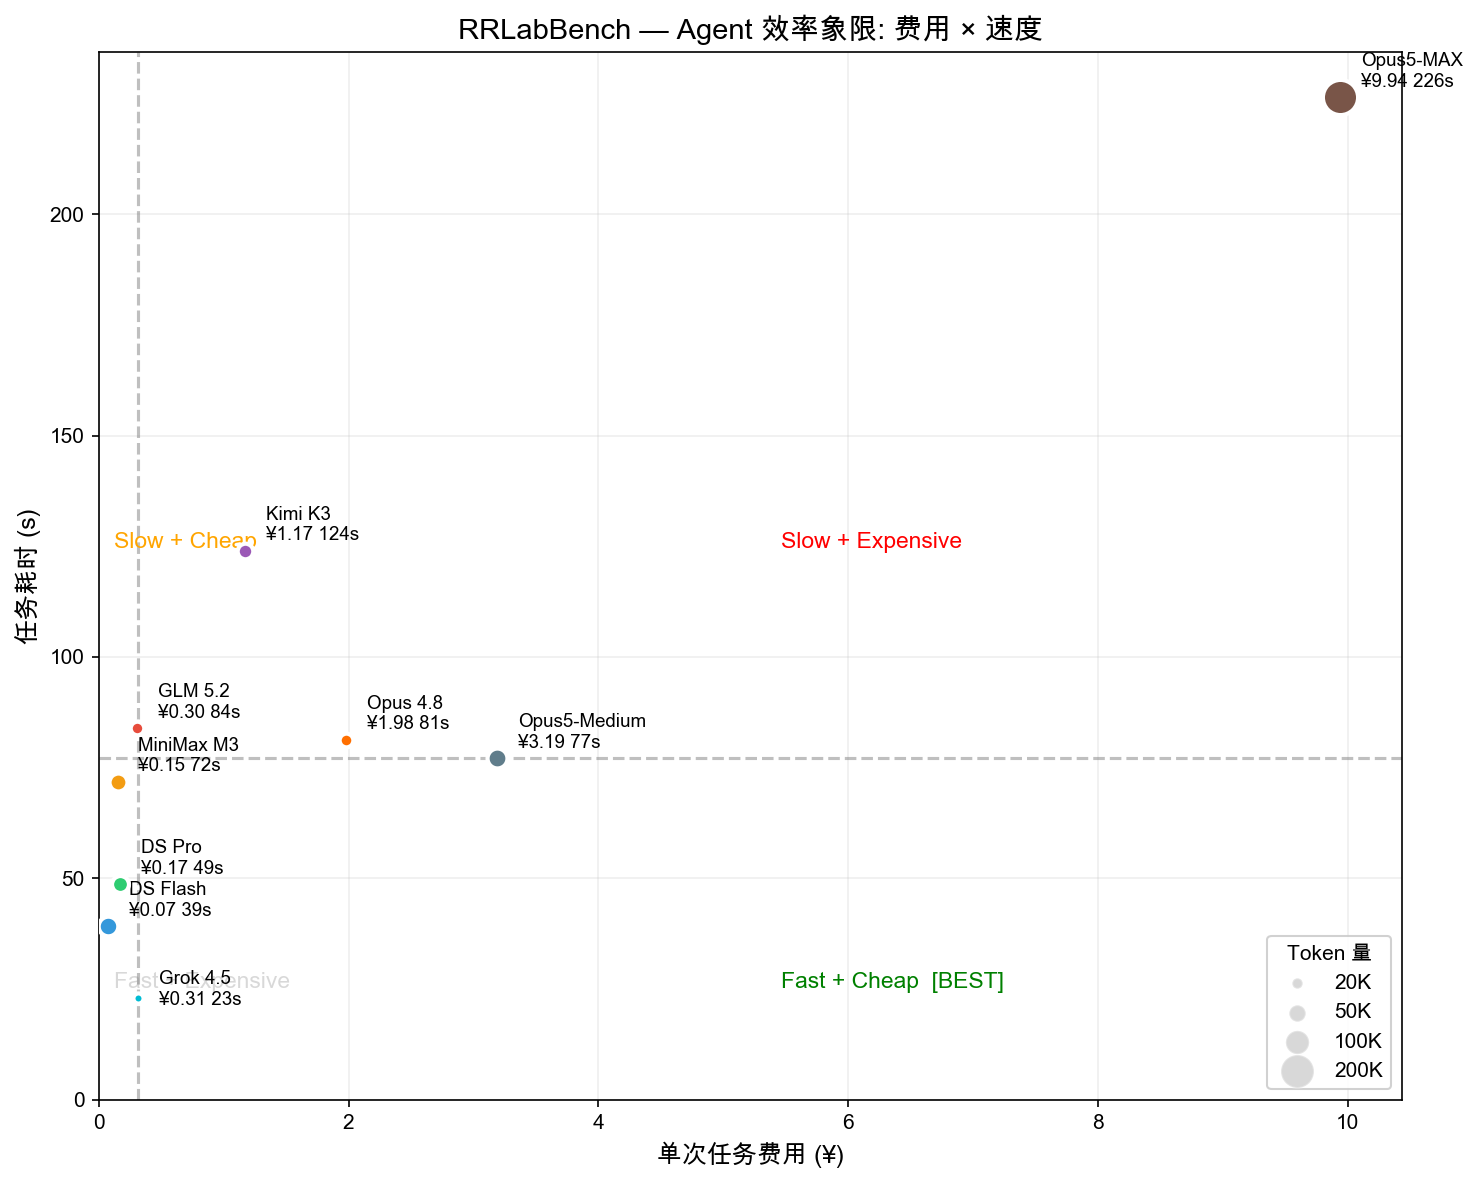
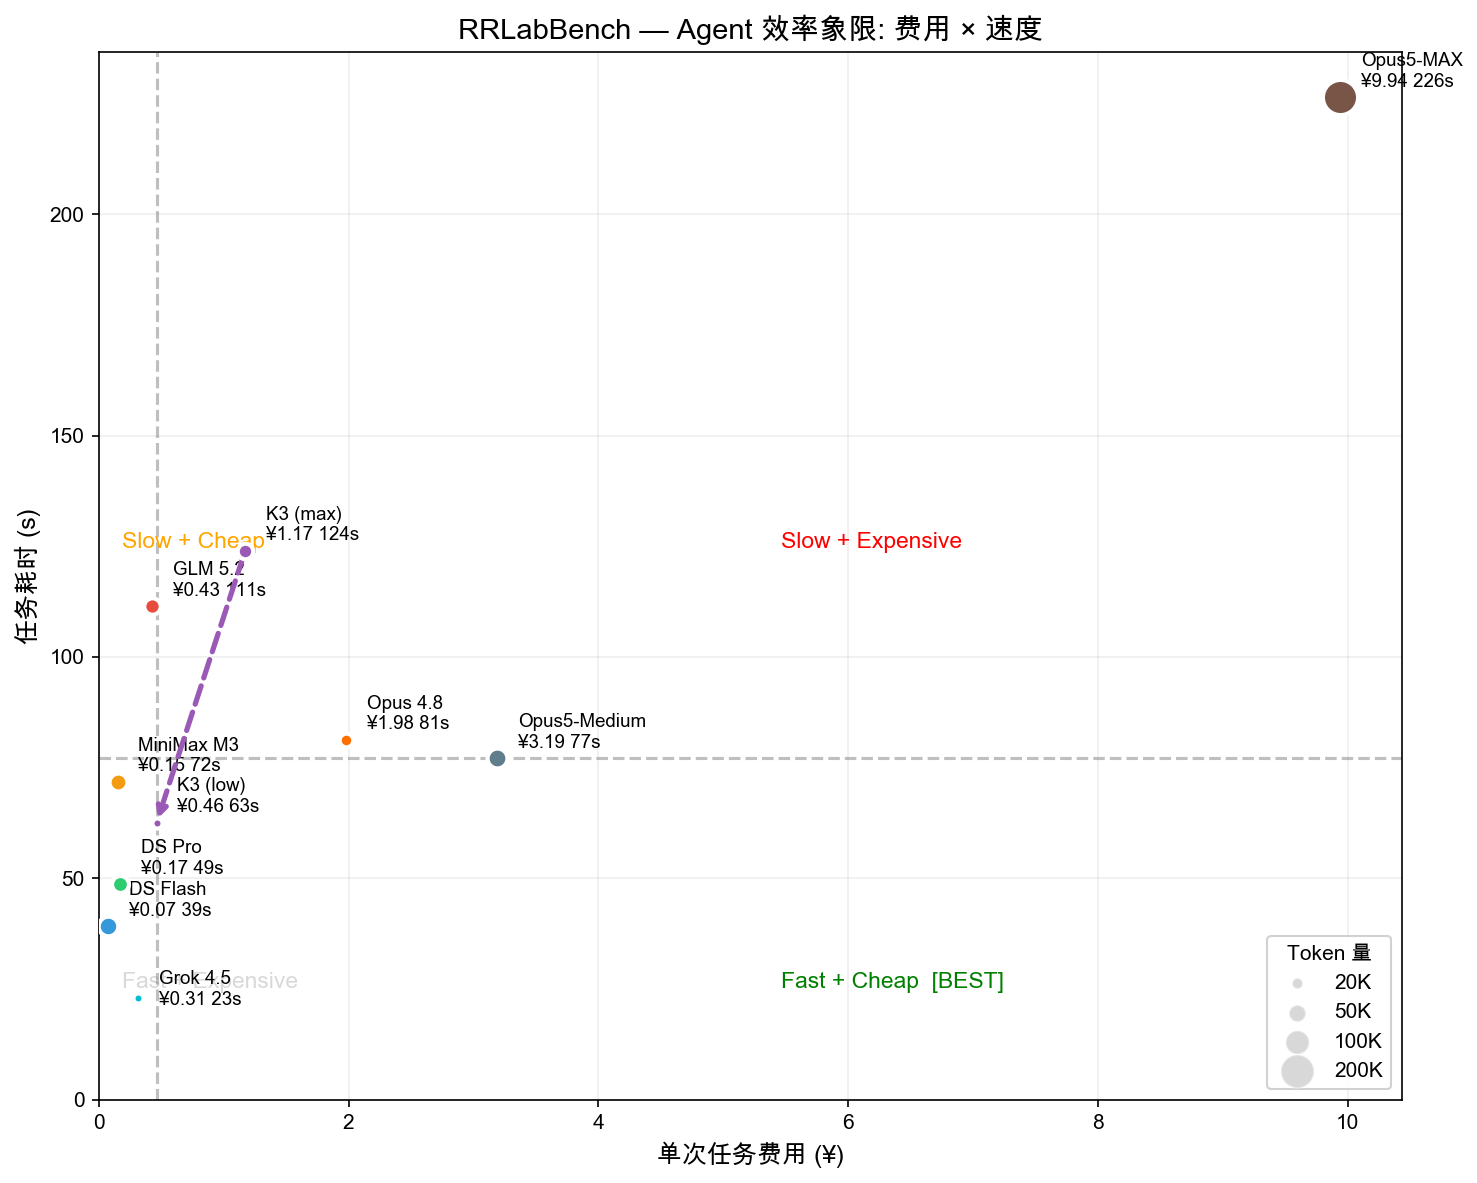
docs: 更新 README 图表与参考数据至 v0.3（K3 thinking=low 重测）
- 三张图表重绘：ranking / quadrant_cost_speed / quadrant_cost_turns
- 象限图新增 K3 max→low 迁移箭头
- 参考数据表更新：K3 (low) 排第 2，GLM 5.2 官方直连数据
- 聚合报告链接指向 data/FINAL_RANKING.md（v0.3）

Changed region(s): [[0.0934, 0.426, 0.1869, 0.6999], [0.0934, 0.8216, 0.1869, 0.8521], [0.1869, 0.426, 0.218, 0.4565]]

diff --git a/scripts/quadrant_png.py b/scripts/quadrant_png.py
@@ -23,7 +23,7 @@ plt.rcParams['axes.unicode_minus'] = False
 MODELS = [
     ('deepseek-v4-pro', 'DS Pro', 3, 6),
     ('deepseek-v4-flash', 'DS Flash', 1, 2),
-    ('kimi-k3', 'Kimi K3', 20, 100),
+    ('kimi-k3', 'K3 (low)', 20, 100),
     ('glm-5.2', 'GLM 5.2', 7, 22),
     ('MiniMax-M3', 'MiniMax M3', 2.18, 8.7),
     ('x-ai/grok-4.5', 'Grok 4.5', 14.5, 43.5),
@@ -74,13 +74,32 @@ for suffix, label in [('', 'Opus5-Medium'), ('_max', 'Opus5-MAX')]:
     if all_t:
         rows.append((label, med(all_t), med(all_e), med(all_tok), med(all_pt), med(all_ct), 36.25, 181.25))
 
+# Kimi K3 thinking=max（归档数据，用于对比）
+ARCHIVE_DIR = DATA_DIR / 'archive-20260726-openrouter'
+all_t,all_e,all_tok,all_pt,all_ct = [],[],[],[],[]
+for s in SCENARIOS:
+    f = ARCHIVE_DIR / f"{s}_kimi-k3.json"
+    try:
+        d = json.loads(f.read_text())
+        results = d if isinstance(d,list) else d.get('results',[])
+        valid = [r for r in results if r and r.get('error') is None]
+        if valid:
+            all_t += [r['turns'] for r in valid]
+            all_e += [r['elapsed'] for r in valid]
+            all_tok += [r['total_tokens'] for r in valid]
+            all_pt += [r.get('prompt_tokens',0) for r in valid]
+            all_ct += [r.get('completion_tokens',0) for r in valid]
+    except: pass
+if all_t:
+    rows.append(('K3 (max)', med(all_t), med(all_e), med(all_tok), med(all_pt), med(all_ct), 20, 100))
+
 data = []
 for label,tm,em,tkm,pm,cm,pi,po in rows:
     data.append({'label':label,'turns':tm,'time':em,'tokens':tkm,
                  'cost':pm/1e6*pi + cm/1e6*po,
                  'tpt':tkm/tm, 'ept':em/tm})
 
-colors = ['#2ecc71','#3498db','#9b59b6','#e74c3c','#f39c12','#00bcd4','#ff6f00','#607d8b','#795548']
+colors = ['#2ecc71','#3498db','#9b59b6','#e74c3c','#f39c12','#00bcd4','#ff6f00','#607d8b','#795548','#9b59b6']
 
 # ═══════ 图 1: 费用 × 速度 象限图 ═══════
 fig, ax = plt.subplots(figsize=(10, 8))
@@ -107,6 +126,13 @@ for i, d in enumerate(data):
     ax.annotate(f"{d['label']}\n¥{d['cost']:.2f} {d['time']:.0f}s",
                 (d['cost'], d['time']), textcoords="offset points", xytext=(10, offset_y),
                 fontsize=9, fontweight='bold')
+
+# K3 max → low 迁移箭头
+k3_max = next((d for d in data if d['label'] == 'K3 (max)'), None)
+k3_low = next((d for d in data if d['label'] == 'K3 (low)'), None)
+if k3_max and k3_low:
+    ax.annotate('', xy=(k3_low['cost'], k3_low['time']), xytext=(k3_max['cost'], k3_max['time']),
+                arrowprops=dict(arrowstyle='->', color='#9b59b6', lw=2.5, linestyle='--'))
 
 # 图例: 气泡大小 = Token
 legend_labels = ['20K', '50K', '100K', '200K']
@@ -150,30 +176,31 @@ print(f"✅ {OUT_DIR / 'quadrant_cost_turns.png'}")
 # ═══════ 图 3: 综合排名横向条形图 ═══════
 fig, ax = plt.subplots(figsize=(10, 7))
 
-# 计算综合分
-best_cost = min(d['cost'] for d in data)
-best_time = min(d['time'] for d in data)
-best_turns = min(d['turns'] for d in data)
-best_tokens = min(d['tokens'] for d in data)
-
+# 计算综合分（与 FINAL_RANKING.md 同口径：回合×0.4 + Token/1000×0.3 + 耗时×0.3，越低越好）
 scored = []
 for d in data:
-    s = best_cost/d['cost']*0.30 + best_time/d['time']*0.30 + best_turns/d['turns']*0.20 + best_tokens/d['tokens']*0.20
+    s = d['turns']*0.4 + d['tokens']/1000*0.3 + d['time']*0.3
     scored.append((d['label'], s))
 
-scored.sort(key=lambda x: x[1])
+scored.sort(key=lambda x: -x[1])  # 差分在上，好分在下
 labels = [s[0] for s in scored]
 scores = [s[1] for s in scored]
-bar_colors = ['#2ecc71','#2ecc71','#2ecc71','#f39c12','#f39c12','#e74c3c','#e74c3c','#e74c3c','#e74c3c']
+n = len(scored)
+bar_colors = []
+for i in range(n):
+    rank = n - i  # 底部是第 1 名
+    if rank <= 3: bar_colors.append('#2ecc71')
+    elif rank <= 6: bar_colors.append('#f39c12')
+    else: bar_colors.append('#e74c3c')
 
 ax.barh(labels, scores, color=bar_colors, height=0.6)
-ax.set_xlabel('综合得分 (费用30% + 速度30% + 回合20% + Token20%)', fontsize=11)
-ax.set_title('RRLabBench — 综合排名', fontsize=14, fontweight='bold')
+ax.set_xlabel('综合效率分 (回合×0.4 + Token/1000×0.3 + 耗时×0.3，越低越好)', fontsize=11)
+ax.set_title('RRLabBench — 综合排名（顶部为第 1 名）', fontsize=14, fontweight='bold')
 
 for i, (label, score) in enumerate(scored):
-    ax.text(score + 0.01, i, f'{score:.3f}', va='center', fontweight='bold')
+    ax.text(score + 0.3, i, f'{score:.1f}', va='center', fontweight='bold')
 
-ax.set_xlim(0, max(scores) * 1.15)
+ax.set_xlim(0, max(scores) * 1.12)
 ax.grid(True, axis='x', alpha=0.2)
 plt.tight_layout()
 plt.savefig(OUT_DIR / 'ranking.png', dpi=150, bbox_inches='tight')

diff --git a/scripts/harness_log.py b/scripts/harness_log.py
@@ -1,0 +1,105 @@
+#!/usr/bin/env python3
+"""
+harness_log — Bench-Harness 每日实验数据记录
+
+每天手动闭环后运行一次，把 pi-reflect 运行结果 + 探针结果追加到
+data/harness-log/harness-log.jsonl（JSONL，一天一行）。
+
+用法:
+  python3 scripts/harness_log.py --date 2026-07-31 \
+      --probe-file /tmp/probe_0731.json \
+      --bad-edits 2 --total-edits 6 \
+      --note "merge吞句+重复行,已手动修复"
+
+参数:
+  --date          日期（默认今天）
+  --probe-file    探针结果 JSON（rrlab-bench probe -o 输出），可选
+  --total-edits   pi-reflect 应用编辑数（从 reflect-history.json 自动读，可覆盖）
+  --bad-edits     diff 检查发现的有害编辑数
+  --note          备注
+"""
+
+import argparse
+import json
+from datetime import date as dt_date
+from pathlib import Path
+
+REPO = Path(__file__).resolve().parent.parent
+LOG_DIR = REPO / "data" / "harness-log"
+LOG_FILE = LOG_DIR / "harness-log.jsonl"
+REFLECT_HISTORY = Path.home() / ".pi" / "agent" / "reflect-history.json"
+
+
+def load_reflect_entry(date_str: str) -> dict | None:
+    """从 reflect-history.json 找该日期对应的记录（按 UTC 日期匹配）"""
+    if not REFLECT_HISTORY.exists():
+        return None
+    history = json.load(open(REFLECT_HISTORY))
+    for entry in reversed(history):
+        ts = entry.get("timestamp", "")
+        # timestamp 是 UTC，本地 +8 的凌晨 4 点 = UTC 前一天 20 点
+        # 匹配：UTC 日期 == date_str 或 date_str 前一天
+        if ts[:10] in (date_str, _prev_day(date_str)):
+            return entry
+    return None
+
+
+def _prev_day(date_str: str) -> str:
+    y, m, d = map(int, date_str.split("-"))
+    from datetime import timedelta
+    return (dt_date(y, m, d) - timedelta(days=1)).isoformat()
+
+
+def main():
+    ap = argparse.ArgumentParser()
+    ap.add_argument("--date", default=dt_date.today().isoformat())
+    ap.add_argument("--probe-file", help="probe -o 输出的 JSON 文件")
+    ap.add_argument("--total-edits", type=int, help="覆盖自动读取的编辑数")
+    ap.add_argument("--bad-edits", type=int, default=0)
+    ap.add_argument("--note", default="")
+    args = ap.parse_args()
+
+    # pi-reflect 信息
+    reflect_entry = load_reflect_entry(args.date)
+    record = {
+        "date": args.date,
+        "reflect": {
+            "ran": reflect_entry is not None,
+            "sessions_analyzed": reflect_entry.get("sessionsAnalyzed") if reflect_entry else 0,
+            "edits_applied": args.total_edits if args.total_edits is not None
+                            else (reflect_entry.get("editsApplied") if reflect_entry else 0),
+            "bad_edits": args.bad_edits,
+            "summary": reflect_entry.get("summary", "") if reflect_entry else "",
+        },
+        "probes": None,
+        "note": args.note,
+    }
+
+    # 探针信息
+    if args.probe_file and Path(args.probe_file).exists():
+        probe_data = json.load(open(args.probe_file))
+        record["probes"] = {
+            "total": len(probe_data),
+            "passed": sum(1 for p in probe_data if p.get("passed")),
+            "results": [
+                {"name": p["probe"], "passed": p["passed"],
+                 "tools": p.get("tool_sequence", [])}
+                for p in probe_data
+            ],
+        }
+
+    LOG_DIR.mkdir(parents=True, exist_ok=True)
+    with open(LOG_FILE, "a", encoding="utf-8") as f:
+        f.write(json.dumps(record, ensure_ascii=False) + "\n")
+
+    r = record["reflect"]
+    p = record["probes"]
+    print(f"✅ logged {args.date}")
+    print(f"   reflect: ran={r['ran']} edits={r['edits_applied']} bad={r['bad_edits']}")
+    if p:
+        print(f"   probes:  {p['passed']}/{p['total']} passed")
+    print(f"   → {LOG_FILE}")
+
+
+if __name__ == "__main__":
+    main()

diff --git a/README.md b/README.md
@@ -178,15 +178,15 @@ This script:
 
 ## Charts
 
-Visualizations from the first batch audit:
+Visualizations from the latest audit (v0.3, 2026-07-30 — Kimi K3 re-run with `thinking=low`, GLM 5.2 re-run via official API):
 
 | Chart | Description |
 |-------|-------------|
-| [![Ranking](charts/ranking.png)](charts/ranking.png) | Model efficiency ranking |
-| [![Cost vs Speed](charts/quadrant_cost_speed.png)](charts/quadrant_cost_speed.png) | Cost vs speed quadrant |
+| [![Ranking](charts/ranking.png)](charts/ranking.png) | Model efficiency ranking (K3 max vs low compared) |
+| [![Cost vs Speed](charts/quadrant_cost_speed.png)](charts/quadrant_cost_speed.png) | Cost vs speed quadrant — arrow shows K3 max→low shift |
 | [![Cost vs Turns](charts/quadrant_cost_turns.png)](charts/quadrant_cost_turns.png) | Cost vs turns quadrant |
 
-All charts generated by `scripts/visualize.py` from the raw data below.
+All charts generated by `scripts/quadrant_png.py` from the raw data below.
 
 ## Reference data
 
@@ -194,22 +194,24 @@ RR Lab internally audited 9 model configurations.
 
 - **Summary table** → below
 - **Raw JSON** → [`data/`](data/) (27 files: 9 models × 3 scenarios, each with per-run details)
-- **Aggregated report** → [`data/benchmarks/FINAL_RANKING.md`](data/benchmarks/FINAL_RANKING.md)
+- **Aggregated report** → [`data/FINAL_RANKING.md`](data/FINAL_RANKING.md)
 
 <details>
 <summary>Expand to see reference data</summary>
 
 | Model | Turns | Time | Tokens | Cost/run |
 |------|:---:|:---:|:---:|:---:|
-| Grok 4.5 | 6 | 23s | 19K | ¥0.31 |
-| DS Flash | 14 | 39s | 71K | ¥0.07 |
-| DS Pro | 12 | 49s | 53K | ¥0.17 |
-| MiniMax M3 | 12 | 72s | 59K | ¥0.15 |
-| GLM 5.2 | 10 | 84s | 34K | ¥0.30 |
+| Grok 4.5 | 6 | 22s | 19K | ¥0.31 |
+| **Kimi K3 (thinking=low)** | 7 | 62s | 19K | ¥0.46 |
+| DS Pro | 12 | 48s | 53K | ¥0.17 |
 | Opus 4.8 | 7 | 81s | 35K | ¥1.98 |
-| Kimi K3 | 10 | 124s | 45K | ¥1.17 |
+| DS Flash | 14 | 39s | 71K | ¥0.07 |
+| MiniMax M3 | 12 | 71s | 59K | ¥0.15 |
 | Opus5-Medium | 12 | 77s | 73K | ¥3.19 |
+| GLM 5.2 | 10 | 111s | 50K | ¥0.43 |
 | Opus5-MAX | 21 | 226s | 228K | ¥9.94 |
+
+For comparison — Kimi K3 with default `thinking=max`: 10 turns, 124s, 45K tokens, ¥1.17. Same model, one parameter: token usage drops 52–78%, rank moves from last to #2.
 
 All models achieved FRR = 0%. Differences are entirely in efficiency.
 </details>
